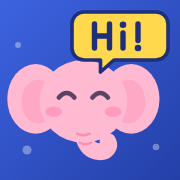
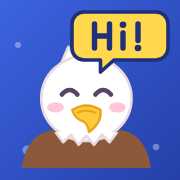
일본어판 마스코트 시바견 · 영어판 흰머리수리 (코끼리 대신) — 로고 · 앱 안 마스코트
- ui.tsx ShibaHead · EagleHead (기존 마스코트와 같은 눈 · 볼 · 소품 자리)
- mascotOf: 일본어판 shiba · 영어판 eagle (한국어판은 그대로 나라별)
- 로고: 시바견 + 붉은 해 + 벚꽃 / 남색 + 흰머리수리 + Hi! · 아이콘 PNG 다시 만듦

Claude-Session: https://claude.ai/code/session_01M5SJaFgiMrrrdFJ7W7Lojq

diff --git a/src/logos.ts b/src/logos.ts
@@ -1,23 +1,40 @@
 // 판별 로고 마크 (120×120 SVG) — 앱 안 회원가입 화면 · 브라우저 탭 아이콘 · 홈 화면 아이콘(PNG)에 씀
 // 글꼴에 기대지 않게 글자도 선으로 그림 (어느 기기에서나 같은 모양)
-//   ja: 분홍 코끼리 + 붉은 해 + 벚꽃  ·  en: 남색 바탕 + 분홍 코끼리 + 말풍선 "Hi!"
+//   ja: 시바견 + 붉은 해 + 벚꽃  ·  en: 남색 바탕 + 흰머리수리 + 말풍선 "Hi!"
 import type { Edition } from './edition'
 
 const INK = '#5B4366'
 
-/** 코끼리 얼굴 (마스코트와 같은 모양, 웃는 눈) */
-const elephant = (y = 0) => `
-  <g transform="translate(0 ${y})">
-    <ellipse cx="23" cy="58" rx="22" ry="27" fill="#FFB9D0"/>
-    <ellipse cx="97" cy="58" rx="22" ry="27" fill="#FFB9D0"/>
-    <ellipse cx="25" cy="60" rx="13" ry="17" fill="#FF9DBE" opacity="0.6"/>
-    <ellipse cx="95" cy="60" rx="13" ry="17" fill="#FF9DBE" opacity="0.6"/>
-    <ellipse cx="60" cy="60" rx="34" ry="32" fill="#FFB9D0"/>
-    <path d="M60 74 C58 88 62 98 72 99 C78 99.5 81 95 79 91" fill="none" stroke="#FFB9D0" stroke-width="13" stroke-linecap="round"/>
-    <path d="M55 85 q5 2.5 10 0 M57 92 q4.5 2.5 9 0" fill="none" stroke="#F590B3" stroke-width="1.8" stroke-linecap="round"/>
-    <path d="M41 57 q6 -7 12 0 M67 57 q6 -7 12 0" fill="none" stroke="${INK}" stroke-width="3.6" stroke-linecap="round"/>
-    <ellipse cx="37" cy="68" rx="6.5" ry="4" fill="#FF7FA8" opacity="0.5"/>
-    <ellipse cx="83" cy="68" rx="6.5" ry="4" fill="#FF7FA8" opacity="0.5"/>
+const EYES = `<path d="M41 57 q6 -7 12 0 M67 57 q6 -7 12 0" fill="none" stroke="${INK}" stroke-width="3.6" stroke-linecap="round"/>
+    <ellipse cx="36" cy="67" rx="6.5" ry="4" fill="#FF7FA8" opacity="0.45"/>
+    <ellipse cx="84" cy="67" rx="6.5" ry="4" fill="#FF7FA8" opacity="0.45"/>`
+
+/** 일본어판 마스코트: 시바견 (앱 안 마스코트 ui.tsx ShibaHead 와 같은 모양) */
+const shiba = () => `
+  <g>
+    <path d="M28 48 Q26 22 34 12 Q48 20 56 34 Z" fill="#F4A65D"/>
+    <path d="M92 48 Q94 22 86 12 Q72 20 64 34 Z" fill="#F4A65D"/>
+    <path d="M33 40 Q32 26 36 20 Q44 25 49 34 Z" fill="#FFD9B8"/>
+    <path d="M87 40 Q88 26 84 20 Q76 25 71 34 Z" fill="#FFD9B8"/>
+    <ellipse cx="60" cy="62" rx="37" ry="33" fill="#F4A65D"/>
+    <path d="M24 66 Q26 94 60 96 Q94 94 96 66 Q88 76 75 73 Q66 71 60 78 Q54 71 45 73 Q32 76 24 66 Z" fill="#FFF4E4"/>
+    <ellipse cx="45" cy="45" rx="4.2" ry="2.8" fill="#FFF4E4"/>
+    <ellipse cx="75" cy="45" rx="4.2" ry="2.8" fill="#FFF4E4"/>
+    <ellipse cx="60" cy="75" rx="5" ry="3.6" fill="${INK}"/>
+    <path d="M60 78.5 v3 M60 81.5 q-4 4 -8 1 M60 81.5 q4 4 8 1" fill="none" stroke="${INK}" stroke-width="2" stroke-linecap="round"/>
+    ${EYES}
+  </g>`
+
+/** 영어판 마스코트: 흰머리수리 (ui.tsx EagleHead 와 같은 모양) */
+const eagle = () => `
+  <g>
+    <path d="M10 114 Q14 84 40 84 L60 92 L80 84 Q106 84 110 114 Z" fill="#8C5A3A"/>
+    <path d="M40 34 L46 20 L52 31 L60 16 L68 31 L74 20 L80 34 Z" fill="#FFFFFF" stroke="#E7DCE4" stroke-width="2" stroke-linejoin="round"/>
+    <ellipse cx="60" cy="60" rx="35" ry="33" fill="#FFFFFF" stroke="#E7DCE4" stroke-width="2"/>
+    <path d="M36 86 L42 94 L48 88 L54 96 L60 89 L66 96 L72 88 L78 94 L84 86" fill="#FFFFFF" stroke="#E7DCE4" stroke-width="2" stroke-linejoin="round"/>
+    <path d="M49 69 Q60 62 71 69 Q72 79 62 86 Q61 80 58 78 Q51 76 49 69 Z" fill="#FFC93C" stroke="#E7A51A" stroke-width="1.8" stroke-linejoin="round"/>
+    <path d="M53 71 q7 -3 14 0" fill="none" stroke="#E7A51A" stroke-width="1.6" stroke-linecap="round"/>
+    ${EYES}
   </g>`
 
 /** 벚꽃 한 송이 (꽃잎 5장) */
@@ -33,7 +50,7 @@ const JA = `<svg xmlns="http://www.w3.org/2000/svg" viewBox="0 0 120 120">
   ${sakura(16, 18, 8, 10, '#FFD3E1', '#FF8FB3')}
   ${sakura(104, 104, 7, -20, '#FFD3E1', '#FF8FB3')}
   ${sakura(102, 20, 5, 30, '#FFD3E1', '#FF8FB3')}
-  <g transform="translate(6 8) scale(0.9)">${elephant()}</g>
+  <g transform="translate(9 10) scale(0.85)">${shiba()}</g>
   ${sakura(90, 30, 11, 18, '#FFE3EC', '#FF4F8B')}
 </svg>`
 
@@ -43,7 +60,7 @@ const EN = `<svg xmlns="http://www.w3.org/2000/svg" viewBox="0 0 120 120">
   <circle cx="18" cy="100" r="3" fill="#FFFFFF" opacity="0.35"/>
   <circle cx="104" cy="98" r="2.2" fill="#FFFFFF" opacity="0.35"/>
   <circle cx="12" cy="30" r="2" fill="#FFFFFF" opacity="0.35"/>
-  <g transform="translate(4 16) scale(0.86)">${elephant()}</g>
+  <g transform="translate(6 14) scale(0.86)">${eagle()}</g>
   <g transform="translate(80 22)">
     <path d="M-24 -14 H24 a8 8 0 0 1 8 8 V10 a8 8 0 0 1 -8 8 H-4 L-13 26 V18 H-24 a8 8 0 0 1 -8 -8 V-6 a8 8 0 0 1 8 -8 Z" fill="#FFD84D" stroke="#1F2F7A" stroke-width="2.4" stroke-linejoin="round"/>
     <path d="M-17 -6 V10 M-17 2 H-7 M-7 -6 V10 M2 0 V10 M12 -6 V5" fill="none" stroke="#1F2F7A" stroke-width="3.6" stroke-linecap="round"/>

diff --git a/src/ui.tsx b/src/ui.tsx
@@ -113,13 +113,14 @@ export function Elephant({
 }) {
   const s = useStore()
   const k = kind ?? mascotOf(s.country)
-  if (s.theme === 'carbon') return <CarbonMascot kind={k} size={size} acc={acc} mood={mood} dim={tone === 'grey'} className={className} style={style} />
+  // 시바견·흰머리수리는 블랙 테마에서도 원래 색 그대로 (어두운 바탕에서도 잘 보임)
+  if (s.theme === 'carbon' && k !== 'shiba' && k !== 'eagle') return <CarbonMascot kind={k} size={size} acc={acc} mood={mood} dim={tone === 'grey'} className={className} style={style} />
   const c = TONES[tone]
   const ink = '#5B4366'
   const blushY = k === 'elephant' ? 68 : 67
   return (
     <svg viewBox="0 0 120 120" width={size} height={size} aria-hidden="true" className={className} style={style}>
-      {k === 'buffalo' ? <BuffaloHead c={c} /> : k === 'horse' ? <HorseHead c={c} /> : k === 'cedar' ? <CedarHead c={c} /> : <ElephantHead c={c} />}
+      {k === 'buffalo' ? <BuffaloHead c={c} /> : k === 'horse' ? <HorseHead c={c} /> : k === 'cedar' ? <CedarHead c={c} /> : k === 'shiba' ? <ShibaHead c={c} /> : k === 'eagle' ? <EagleHead c={c} /> : <ElephantHead c={c} />}
       {/* 눈 */}
       {mood === 'happy' ? (
         <>
@@ -157,6 +158,58 @@ function ElephantHead({ c }: { c: Tone }) {
       {/* 코 */}
       <path d="M60 74 C58 88 62 98 72 99 C78 99.5 81 95 79 91" fill="none" stroke={c.body} strokeWidth="13" strokeLinecap="round" />
       <path d="M55 85 q5 2.5 10 0 M57 92 q4.5 2.5 9 0" fill="none" stroke={c.line} strokeWidth="1.8" strokeLinecap="round" />
+    </>
+  )
+}
+
+/** 일본어판: 시바견 — 뾰족한 세모 귀 · 황갈색 털 · 크림색 볼과 주둥이 · 눈썹 점 */
+function ShibaHead({ c }: { c: Tone }) {
+  const grey = c.body === TONES.grey.body
+  const fur = grey ? c.body : '#F4A65D'
+  const cream = grey ? c.muzzle : '#FFF4E4'
+  const inner = grey ? c.ear : '#FFD9B8'
+  return (
+    <>
+      {/* 귀 */}
+      <path d="M28 48 Q26 22 34 12 Q48 20 56 34 Z" fill={fur} strokeLinejoin="round" />
+      <path d="M92 48 Q94 22 86 12 Q72 20 64 34 Z" fill={fur} strokeLinejoin="round" />
+      <path d="M33 40 Q32 26 36 20 Q44 25 49 34 Z" fill={inner} />
+      <path d="M87 40 Q88 26 84 20 Q76 25 71 34 Z" fill={inner} />
+      {/* 얼굴 */}
+      <ellipse cx="60" cy="62" rx="37" ry="33" fill={fur} />
+      {/* 크림색 볼 · 주둥이 */}
+      <path d="M24 66 Q26 94 60 96 Q94 94 96 66 Q88 76 75 73 Q66 71 60 78 Q54 71 45 73 Q32 76 24 66 Z" fill={cream} />
+      {/* 눈썹 점 */}
+      <ellipse cx="45" cy="45" rx="4.2" ry="2.8" fill={cream} />
+      <ellipse cx="75" cy="45" rx="4.2" ry="2.8" fill={cream} />
+      {/* 코 · 입 */}
+      <ellipse cx="60" cy="75" rx="5" ry="3.6" fill="#5B4366" />
+      <path d="M60 78.5 v3 M60 81.5 q-4 4 -8 1 M60 81.5 q4 4 8 1" fill="none" stroke="#5B4366" strokeWidth="2" strokeLinecap="round" />
+    </>
+  )
+}
+
+/** 영어판: 흰머리수리 (미국 국조) — 하얀 머리 · 노란 부리 · 갈색 날개 어깨 */
+function EagleHead({ c }: { c: Tone }) {
+  const grey = c.body === TONES.grey.body
+  const brown = grey ? c.line : '#8C5A3A'
+  const head = grey ? c.muzzle : '#FFFFFF'
+  const outline = grey ? c.line : '#E7DCE4'
+  const beak = grey ? c.ear : '#FFC93C'
+  const beakLine = grey ? c.line : '#E7A51A'
+  return (
+    <>
+      {/* 날개 어깨 */}
+      <path d="M10 114 Q14 84 40 84 L60 92 L80 84 Q106 84 110 114 Z" fill={brown} />
+      {/* 머리 깃털 */}
+      <path d="M40 34 L46 20 L52 31 L60 16 L68 31 L74 20 L80 34 Z" fill={head} stroke={outline} strokeWidth="2" strokeLinejoin="round" />
+      {/* 머리 */}
+      <ellipse cx="60" cy="60" rx="35" ry="33" fill={head} stroke={outline} strokeWidth="2" />
+      {/* 목 깃털 */}
+      <path d="M36 86 L42 94 L48 88 L54 96 L60 89 L66 96 L72 88 L78 94 L84 86" fill={head} stroke={outline} strokeWidth="2" strokeLinejoin="round" />
+      {/* 부리 */}
+      <path d="M49 69 Q60 62 71 69 Q72 79 62 86 Q61 80 58 78 Q51 76 49 69 Z" fill={beak} stroke={beakLine} strokeWidth="1.8" strokeLinejoin="round" />
+      <path d="M53 71 q7 -3 14 0" fill="none" stroke={beakLine} strokeWidth="1.6" strokeLinecap="round" />
     </>
   )
 }

diff --git a/src/mascot.ts b/src/mascot.ts
@@ -1,13 +1,16 @@
 // 나라별 마스코트: 라오스·태국(·기타) = 코끼리 · 베트남 = 물소 · 몽골 = 말 · 레바논 = 백향목(국기·나라 상징)
 // 그림(ui.tsx 의 Elephant)·코스 아이콘이 이 값을 따라감. 계급 이름·그림은 나라와 상관없이 계급 동물(RANK_ANIMALS)
 import type { L10n, Tier } from './data/words'
+import { EDITION, IS_KO } from './edition'
 
-export type MascotKind = 'elephant' | 'buffalo' | 'horse' | 'cedar'
+// 일본어판 = 시바견 · 영어판 = 흰머리수리 (미국 국조, 토익은 미국식 영어 기준)
+export type MascotKind = 'elephant' | 'buffalo' | 'horse' | 'cedar' | 'shiba' | 'eagle'
 
-export const mascotOf = (country: string): MascotKind => (country === 'VN' ? 'buffalo' : country === 'MN' ? 'horse' : country === 'LB' ? 'cedar' : 'elephant')
+export const mascotOf = (country: string): MascotKind =>
+  !IS_KO ? (EDITION === 'ja' ? 'shiba' : 'eagle') : country === 'VN' ? 'buffalo' : country === 'MN' ? 'horse' : country === 'LB' ? 'cedar' : 'elephant'
 
 // 백향목 이모지는 없어서 상록수
-export const MASCOT_EMOJI: Record<MascotKind, string> = { elephant: '🐘', buffalo: '🐃', horse: '🐎', cedar: '🌲' }
+export const MASCOT_EMOJI: Record<MascotKind, string> = { elephant: '🐘', buffalo: '🐃', horse: '🐎', cedar: '🌲', shiba: '🐕', eagle: '🦅' }
 
 /** 계급 동물 (모든 나라 같음): 올라갈수록 귀여움 → 멋짐. 그림은 rankAnimals.tsx */
 export const RANK_ANIMALS: { emoji: string; name: L10n }[] = [
